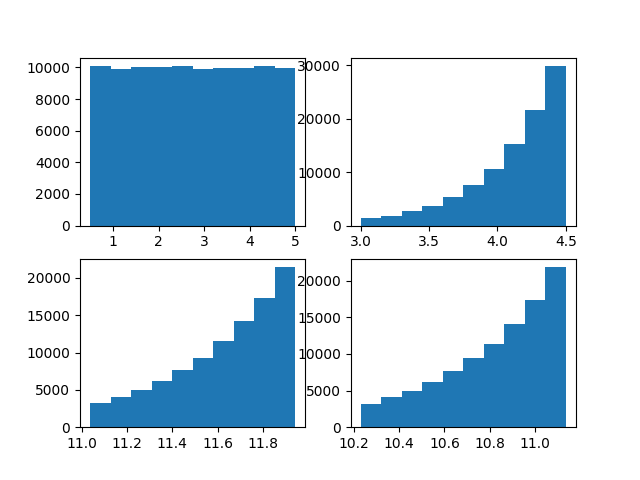
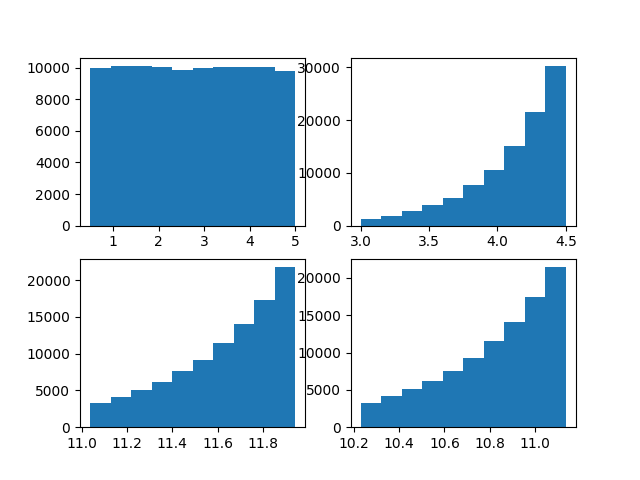
created dataset 250_000, no more calls on jax when creating dataset

diff --git a/create_dataset_sbisim.py b/create_dataset_sbisim.py
@@ -1,17 +1,20 @@
 import os
 
+# import os
+# os.environ['JAX_PLATFORM_NAME'] = 'cpu'
+
 # from autocvd import autocvd
 # autocvd(num_gpus = 1)
 
-import jax.numpy as np
+import numpy as np
 import pandas as pd 
 from tqdm import tqdm 
 import jax
-import jax.numpy as jnp 
+import jax.numpy as jnp
 import matplotlib.pyplot as plt
 
-# from astropy import units as u
-# from odisseo.units import CodeUnits
+from astropy import units as u
+from odisseo.units import CodeUnits
 
 # def convert_to_csv(path_stored, path_to_save, num_simulations=1000):
 #     print('start converting all the npz files to csv')
@@ -48,18 +51,18 @@ def to_inference_parameters(theta, ):
         """
         convert from simulation parameters to inference parameters
         """
-        code_length = 10.0 * u.kpc
-        code_mass = 1e4 * u.Msun
-        code_time = 3 * u.Gyr
-        code_units = CodeUnits(code_length, code_mass, G=1, unit_time = code_time )  
+        # code_length = 10.0 * u.kpc
+        # code_mass = 1e4 * u.Msun
+        # code_time = 3 * u.Gyr
+        # code_units = CodeUnits(code_length, code_mass, G=1, unit_time = code_time )  
 
         theta[0] = theta[0] # t_end is already in Gyr
         theta[1] = np.log10(theta[1]).item() # Plummer mass is already in Msun
-        theta[2] = theta[2] * code_units.code_length.to(u.kpc) # Plummer a
-        theta[3] = np.log10(theta[3] * code_units.code_mass.to(u.Msun)).item()  # NFW Mvir
-        theta[4] = theta[4] * code_units.code_length.to(u.kpc)  # NFW r_s
-        theta[5] = np.log10(theta[5] * code_units.code_mass.to(u.Msun)).item() # MN M
-        theta[6] = theta[6] * code_units.code_length.to(u.kpc) # MN a
+        # theta[2] = theta[2] * code_units.code_length.to(u.kpc) # Plummer a
+        theta[3] = np.log10(theta[3] * 1e4).item()  # NFW Mvir
+        # theta[4] = theta[4] * code_units.code_length.to(u.kpc)  # NFW r_s
+        theta[5] = np.log10(theta[5] * 1e4).item() # MN M
+        # theta[6] = theta[6] * code_units.code_length.to(u.kpc) # MN a
         return theta
 
 def convert_to_single_npy(path_stored, path_to_save, num_simulations=1000):
@@ -220,7 +223,7 @@ def create_dataset(path_stored, path_to_save, num_simulations=[10_000, 100_000],
         # Accumulate for logging
         x_all.append(data['x'][:1000])
         theta_all.append(to_inference_parameters(data['theta'])[[0, 1, 3, 5]])
-    
+
     print(f'Multiple observations - x shape: {np.array(x_all).shape}')
     print(f'Multiple observations - theta shape: {np.array(theta_all).shape}')
     print(f'Created {num_observations} observation directories')
@@ -237,7 +240,7 @@ def create_dataset(path_stored, path_to_save, num_simulations=[10_000, 100_000],
 
 if __name__ == "__main__":
     path_stored = '/export/data/vgiusepp/odisseo_data/data_fix_position/'
-    path_to_save = './data/sbi-benchmarks/odisseo/'
+    path_to_save = '/export/data/vgiusepp/odisseo_data/data_fix_position/sbi-sim/data/sbi-benchmarks/odisseo/'
     # convert_to_csv(path_stored, path_to_save, num_simulations=1000)
     # convert_to_single_npy(path_stored, path_to_save, num_simulations=10_000)
     # num_observation_npy(path_stored, path_to_save, simulation_observation_index=10_000)
@@ -246,7 +249,7 @@ if __name__ == "__main__":
     # summary = create_dataset(
     #     path_stored, 
     #     path_to_save, 
-    #     num_simulations=[10_000, 100_000], 
+    #     num_simulations=[200_000], 
     #     num_observations=10, 
     #     seed=42
     # )
@@ -257,15 +260,17 @@ if __name__ == "__main__":
     # print(f"Multiple observation indices: {summary['multiple_observation_indices']}")
     # print(f"Total files used: {summary['total_files_used']}")
 
-    theta = np.load('/export/home/vgiusepp/sbi_diff_sim/sbi-sim/data/sbi-benchmarks/odisseo/theta_100000.npy')
+    theta = np.load('/export/data/vgiusepp/odisseo_data/data_fix_position/sbi-sim/data/sbi-benchmarks/odisseo/theta_100000.npy')
     fig = plt.figure()
     for i in range(theta.shape[1]):
         ax = fig.add_subplot(2, 2, i+1)
-        # if i > 1:
-        #     ax.hist(np.log10(theta[:, i]))
-        # else:
-        #     ax.hist(theta[:, i])
         ax.hist(theta[:, i])
         
     fig.savefig('theta.png')
 
+    # code_length = 10.0 * u.kpc
+    # code_mass = 1e4 * u.Msun
+    # code_time = 3 * u.Gyr
+    # code_units = CodeUnits(code_length, code_mass, G=1, unit_time = code_time )  
+    # print('unit length to kpc' , code_units.code_length.to(u.kpc))
+    # print('unit mass to Msun' , code_units.code_mass.to(u.Msun))
